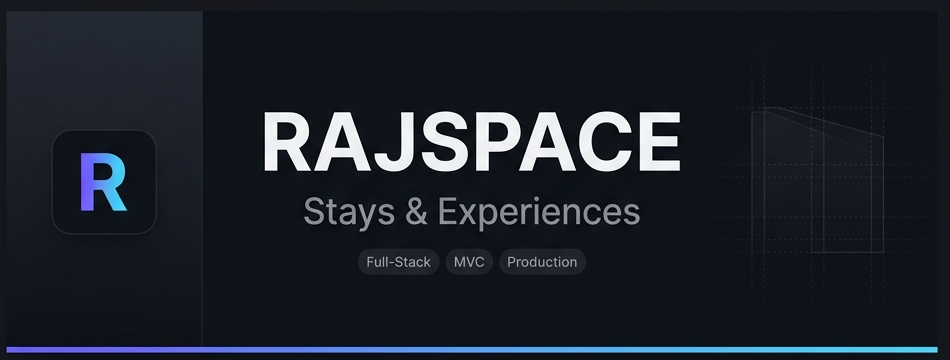
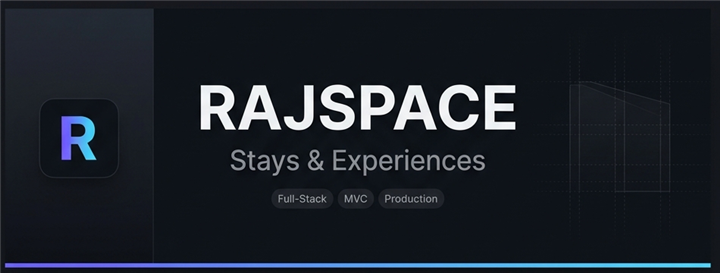
Updated README File

diff --git a/README.md b/README.md
@@ -1,8 +1,14 @@
 <div align="center">
 
-<img src="./assets/banner_v2.png" alt="RAJSPACE — Stays & Experiences" width="100%" style="border-radius:12px;"/>
+<a href="https://rajspace.onrender.com">
+  <img
+    src="./assets/banner_v2.png"
+    alt="RAJSPACE — Stays & Experiences"
+    width="640"
+    height="242"
+  />
+</a>
 
-<br/>
 <br/>
 
 [![Node.js](https://img.shields.io/badge/Node.js-22.x-339933?style=for-the-badge&logo=node.js&logoColor=white)](https://nodejs.org/)
@@ -26,9 +32,7 @@
 
 <br/>
 
-**[🌐 Live Demo](https://rajspace.onrender.com)** &nbsp;&nbsp;·&nbsp;&nbsp; **[🚀 Features](#-features)** &nbsp;&nbsp;·&nbsp;&nbsp; **[🏗 Architecture](#-system-architecture)** &nbsp;&nbsp;·&nbsp;&nbsp; **[📦 Quick Start](#-quick-start)** &nbsp;&nbsp;·&nbsp;&nbsp; **[📚 API Docs](#-api-reference)**
-
-<br/>
+**[🌐 Live Demo](https://rajspace.onrender.com)** · **[🚀 Features](#-features)** · **[🏗 Architecture](#-system-architecture)** · **[📦 Quick Start](#-quick-start)** · **[📚 API Docs](#-api-reference)**
 
 </div>
 
